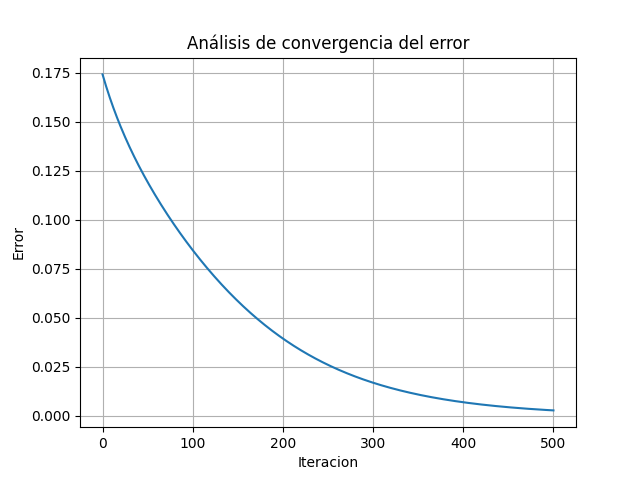
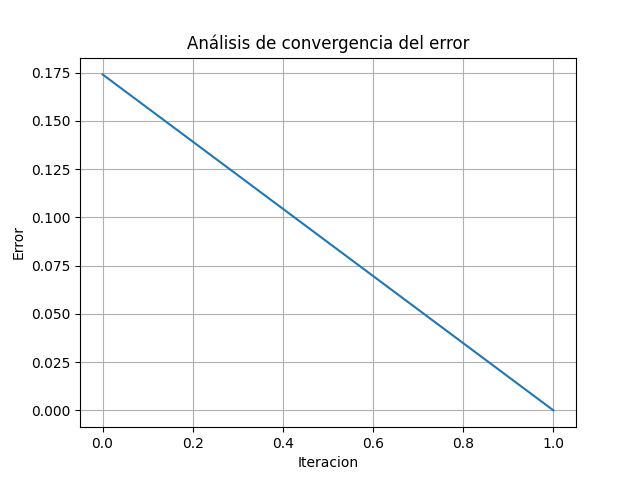
Solucion finalv2

diff --git a/Tareas/Tarea 1/Solucion Computacional/gradiente/steepest.py b/Tareas/Tarea 1/Solucion Computacional/gradiente/steepest.py
@@ -39,9 +39,7 @@ def subrutina(X, Y, var_alfa, var_beta):
     Esta funcion debe retornar el valor de la funcion, su gradiente segun
     la iteracion estudiada.
     """
-    # Dimensiones de la matriz ingresada
-    m, k = (55, 5)
-
+   
     """ IMPLEMENTADO """
     # Se crean las variables que ayudan a definir la funcion principal
     # para este caso el vector que solo posee valor en coordenada n
@@ -106,7 +104,7 @@ def gradiente(X, Y, var_alfa_inicial, var_beta_inicial, epsilon, iteracion_maxim
             # Hagamos Linesearch es más simple
             """ IMPLEMENTADO """
             variables = np.concatenate((var_alfa, var_beta))
-            lambda_ = fminbound(funcion_linesearch, -1, 10, args=(X, Y, variables, direccion_descenso))
+            lambda_ = fminbound(funcion_linesearch, 0, 1, args=(X, Y, variables, direccion_descenso))
             
             """ IMPLEMENTADO """
 
@@ -123,8 +121,8 @@ def gradiente(X, Y, var_alfa_inicial, var_beta_inicial, epsilon, iteracion_maxim
         # 5º paso del algoritmo: Se actualiza el valor de x para la siguiente
         # iteracion del algoritmo
         """ IMPLEMENTADO """
-        var_alfa = var_alfa + (lambda_/110)*direccion_descenso[:5]
-        var_beta = var_beta + (lambda_/110)*direccion_descenso[5:]
+        var_alfa = var_alfa + lambda_*direccion_descenso[:5]
+        var_beta = var_beta + lambda_*direccion_descenso[5:]
         iteracion += 1
         """ IMPLEMENTADO """
     

diff --git a/Tareas/Tarea 1/Solucion Computacional/newton/newton.py b/Tareas/Tarea 1/Solucion Computacional/newton/newton.py
@@ -121,8 +121,8 @@ def newton(X, Y, var_alfa_inicial, var_beta_inicial, epsilon, iteracion_maxima):
         # 5º paso del algoritmo: Se actualiza el valor de x para la siguiente
         # iteracion del algoritmo
         """ IMPLEMENTADO """
-        var_alfa = var_alfa + (lambda_/110)*direccion_descenso[:5]
-        var_beta = var_beta + (lambda_/110)*direccion_descenso[5:]
+        var_alfa = var_alfa + lambda_*direccion_descenso[:5]
+        var_beta = var_beta + lambda_*direccion_descenso[5:]
         iteracion += 1
         iteraciones.append(iteracion)
         """ IMPLEMENTADO """
